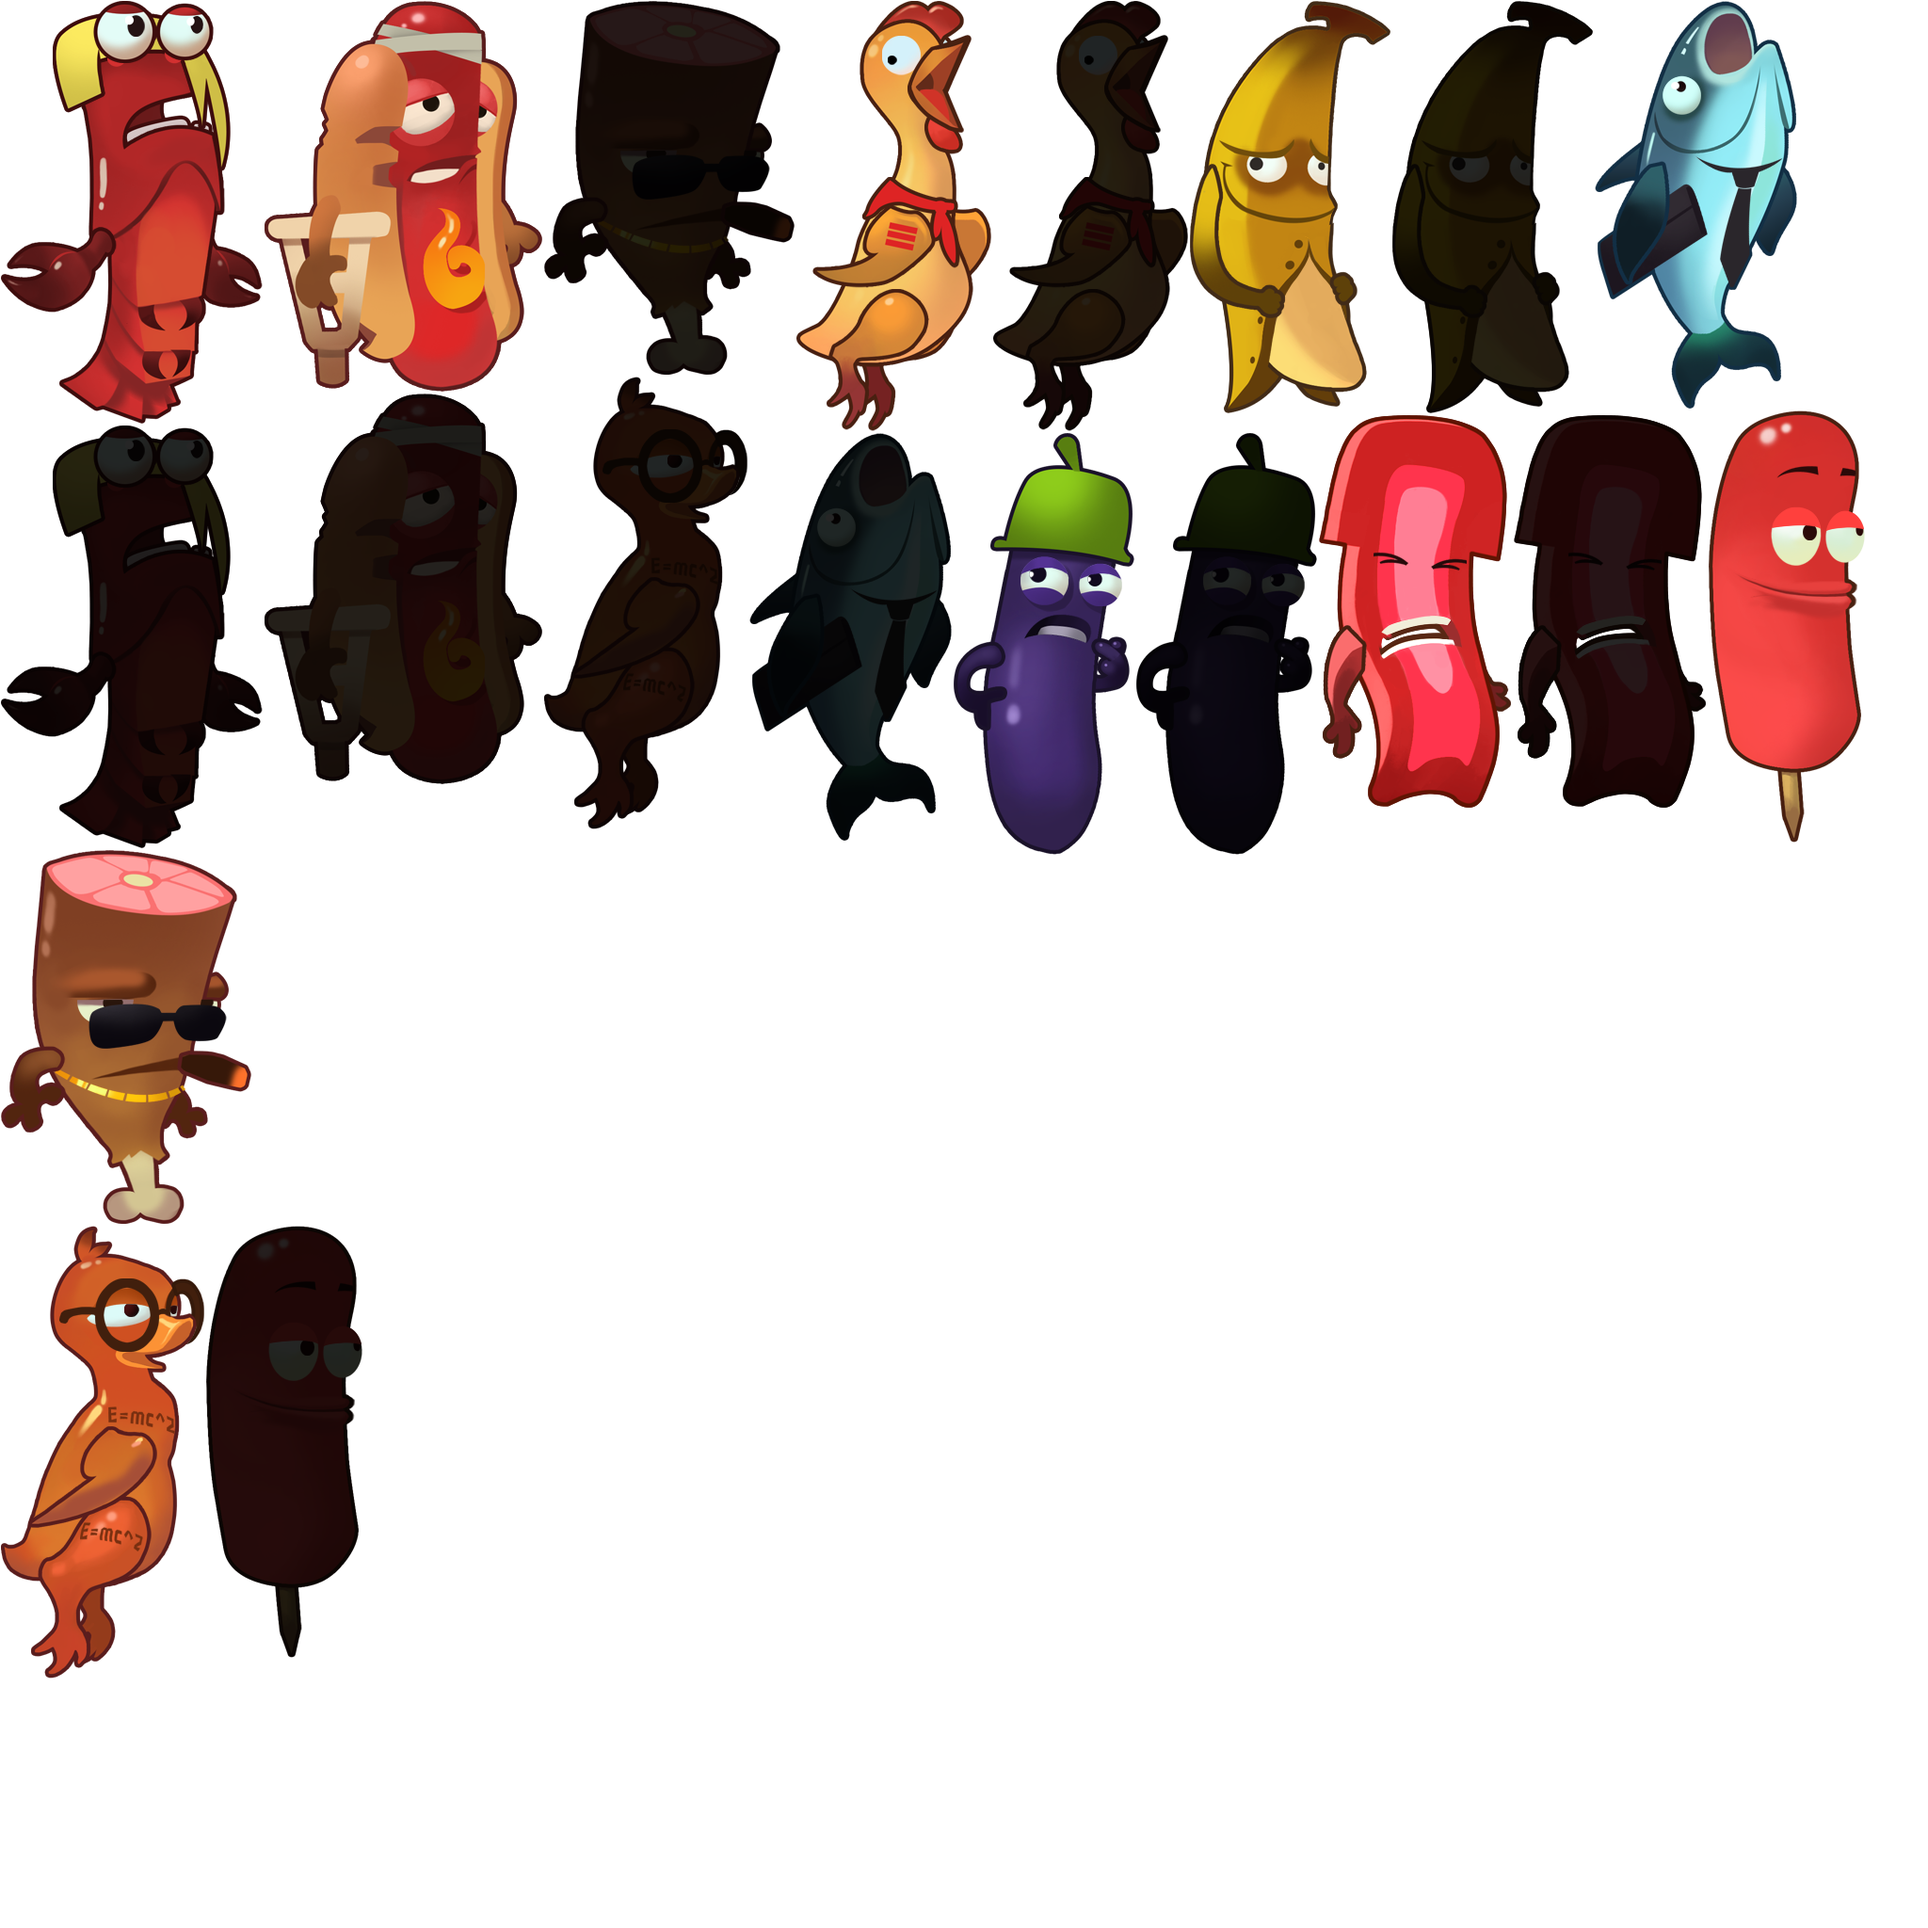
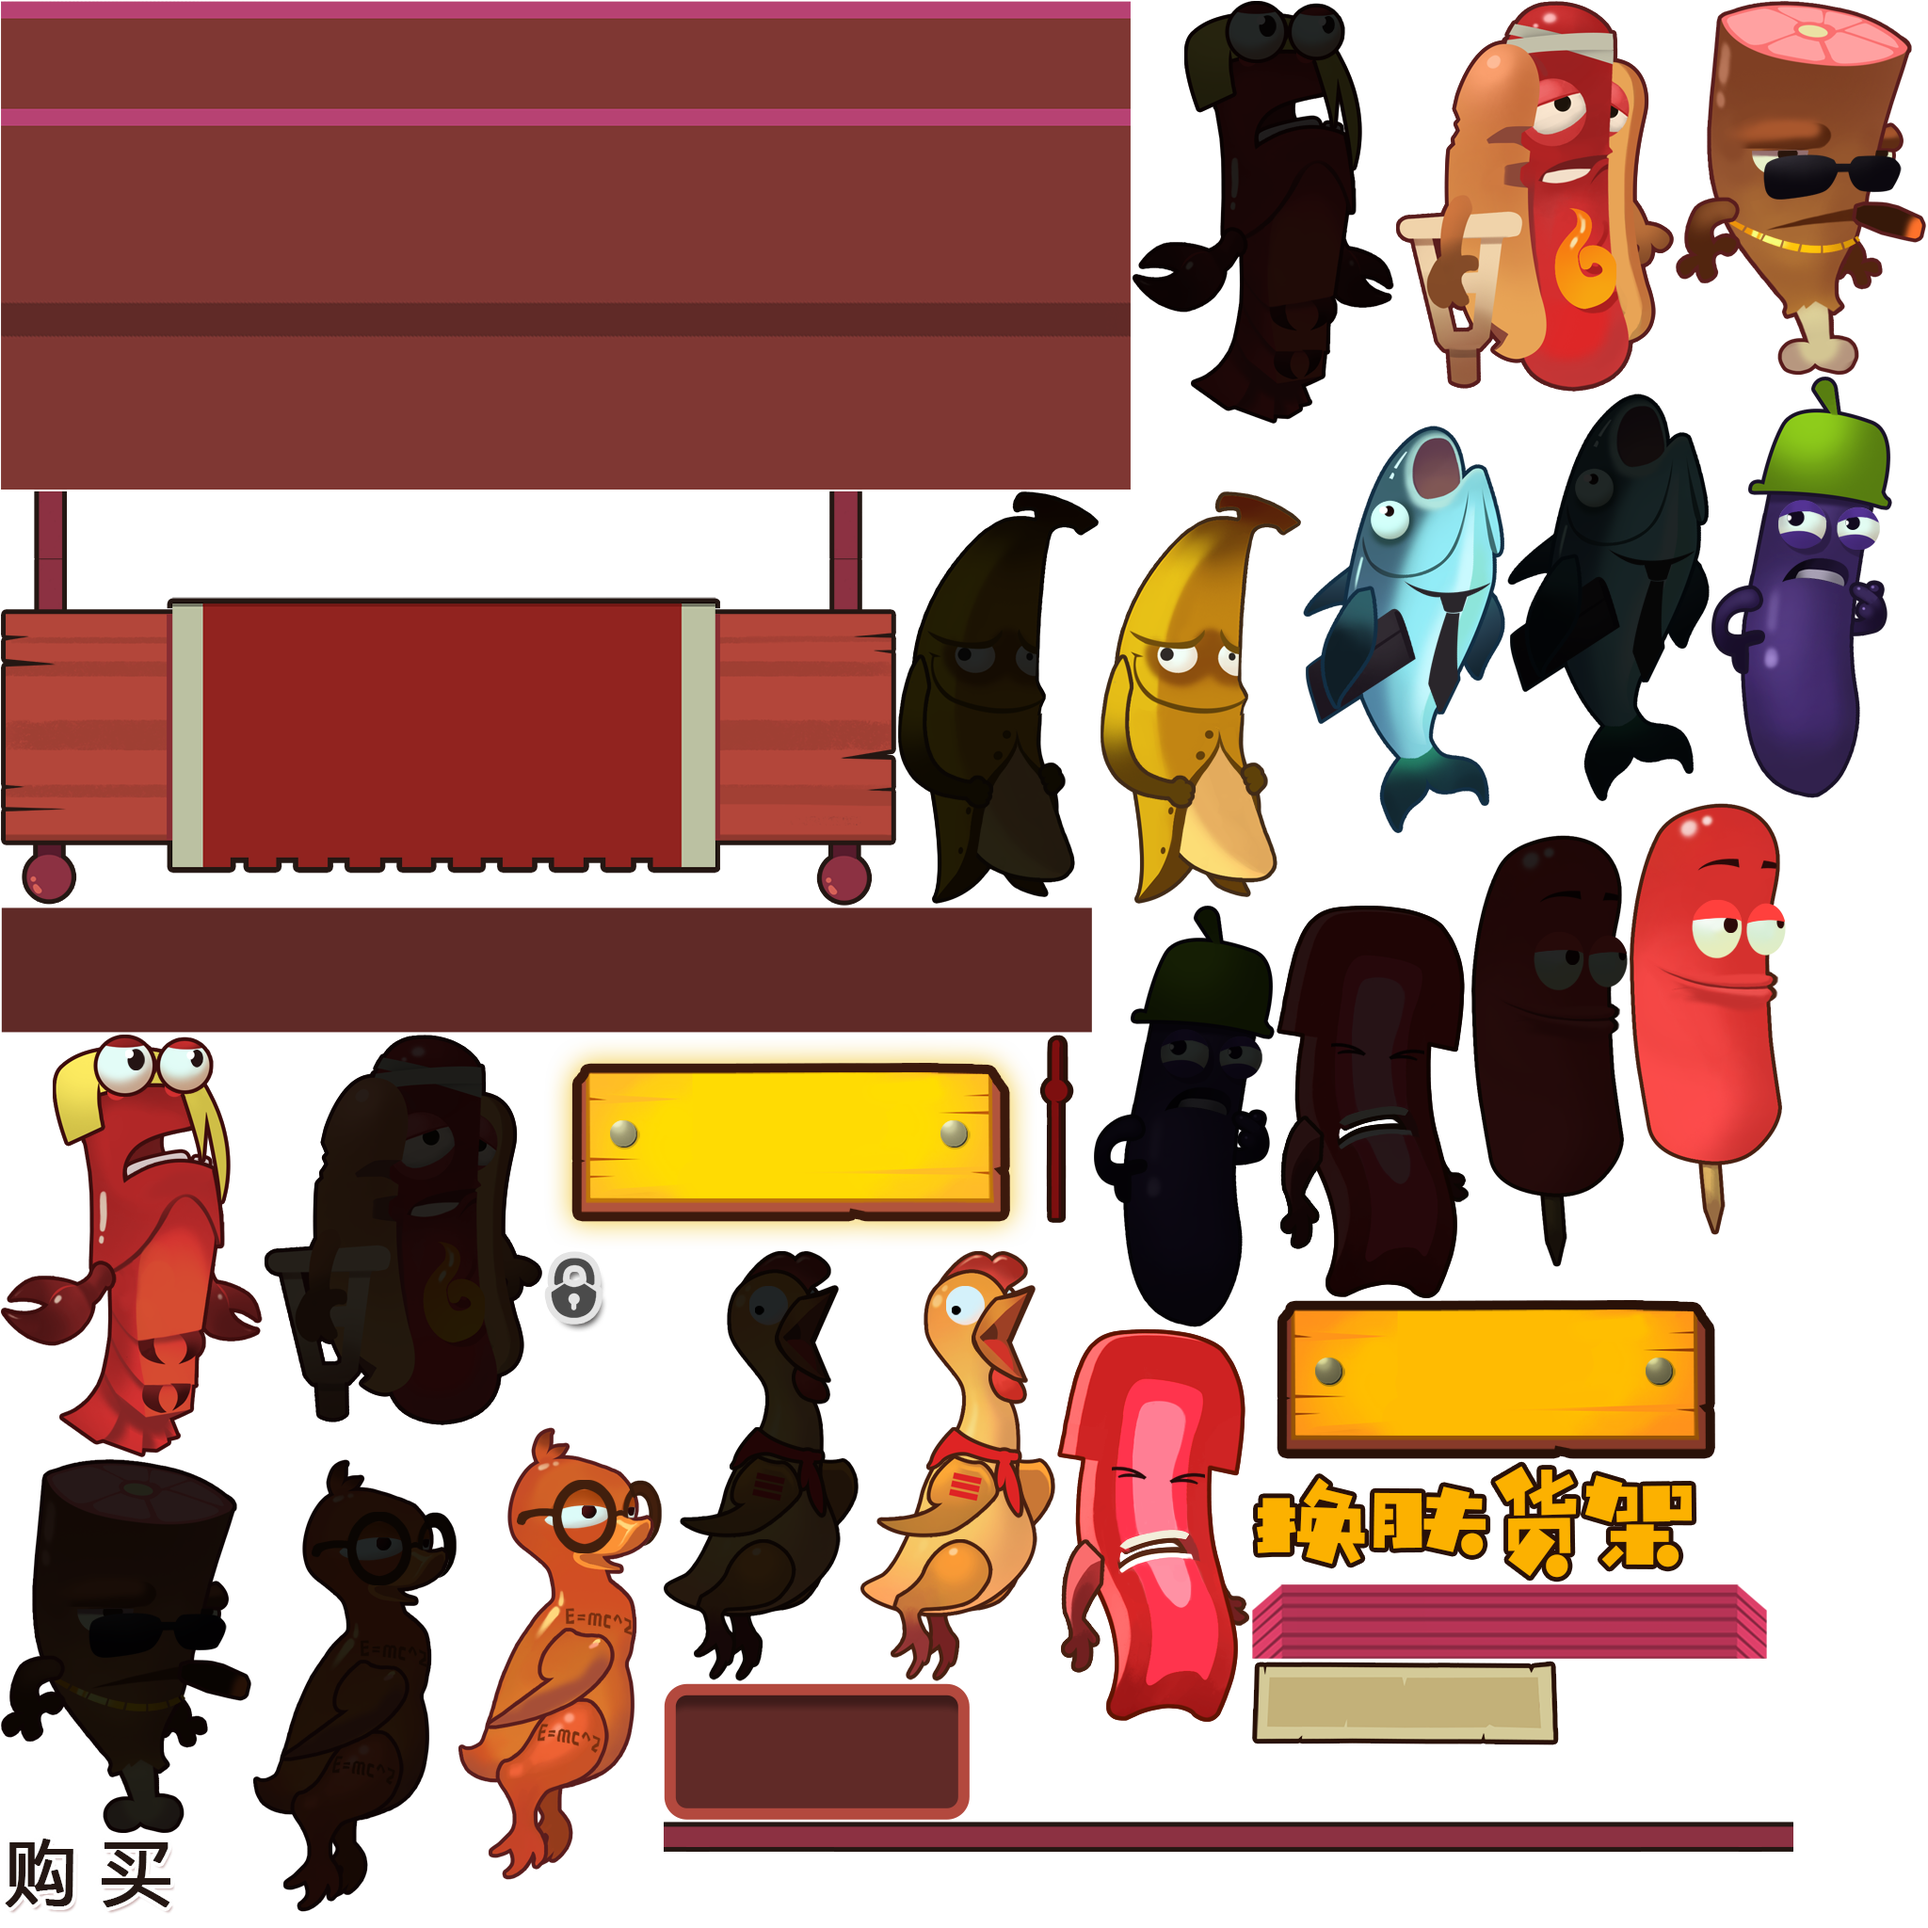
a

diff --git a/Jump/src/changCloth/skin/ChangeClothMainPanel.ts b/Jump/src/changCloth/skin/ChangeClothMainPanel.ts
@@ -2,9 +2,9 @@ class ChangeClothMainPanel extends eui.Component implements  eui.UIComponent {
 
 	private readonly NAME_ARR:string[] = ["huotui", "kaoya", "peigen", "qiezi", "regou", "wumaoji", "xiangchang", "xiangjiao", "xianyu", "xiaolongxia"];
 
-	private readonly UNIT_WIDTH:number = 300;
+	private readonly UNIT_WIDTH:number = 250;
 
-	private readonly SCALE_CHANGE:number = 1.5;
+	private readonly SCALE_CHANGE:number = 1.3;
 
 	private readonly TWEEN_TIME:number = 1;
 
@@ -67,17 +67,39 @@ class ChangeClothMainPanel extends eui.Component implements  eui.UIComponent {
 
 		for(let i:number = 0 ; i < this.NAME_ARR.length ; i++){
 
-			let tex:egret.Texture = RES.getRes("cloth_json." + this.NAME_ARR[i]);
+			let container:egret.DisplayObjectContainer = new egret.DisplayObjectContainer();
+
+			container.width = this.UNIT_WIDTH;
+
+			container.anchorOffsetX = 0.5 * this.UNIT_WIDTH;
+
+			container.x = this.UNIT_WIDTH * i;
+
+			let tex:egret.Texture = RES.getRes("cloth_json.guagou");
 
 			let bp:egret.Bitmap = new egret.Bitmap(tex);
 
-			bp.anchorOffsetX = 0.5 * bp.width;
+			bp.x = 0.5 * this.UNIT_WIDTH - 0.5 * bp.width;
 
-			bp.x = this.UNIT_WIDTH * i;
+			container.addChild(bp);
 
-			this.main.addChild(bp);
+			let tex2:egret.Texture = RES.getRes("cloth_json." + this.NAME_ARR[i]);
 
-			this.bpArr.push(bp);
+			let bp2:egret.Bitmap = new egret.Bitmap(tex2);
+
+			// bp.anchorOffsetX = 0.5 * bp.width;
+
+			// bp.x = this.UNIT_WIDTH * i;
+
+			bp2.x = 0.5 * this.UNIT_WIDTH - 0.5 * bp2.width;
+
+			bp2.y = bp.height - 80;
+
+			container.addChild(bp2);
+
+			this.main.addChild(container);
+
+			this.bpArr.push(container);
 		}
 
 		this.nowX = 0;

diff --git a/Jump/libs/exml.e.d.ts b/Jump/libs/exml.e.d.ts
@@ -2,6 +2,8 @@ declare module skins{
 	class ButtonSkin extends eui.Skin{
 	}
 }
+declare class BuyButtonSkin extends eui.Skin{
+}
 declare class ChangeClothMainPanelSkin extends eui.Skin{
 }
 declare class AlertPanelSkin extends eui.Skin{
